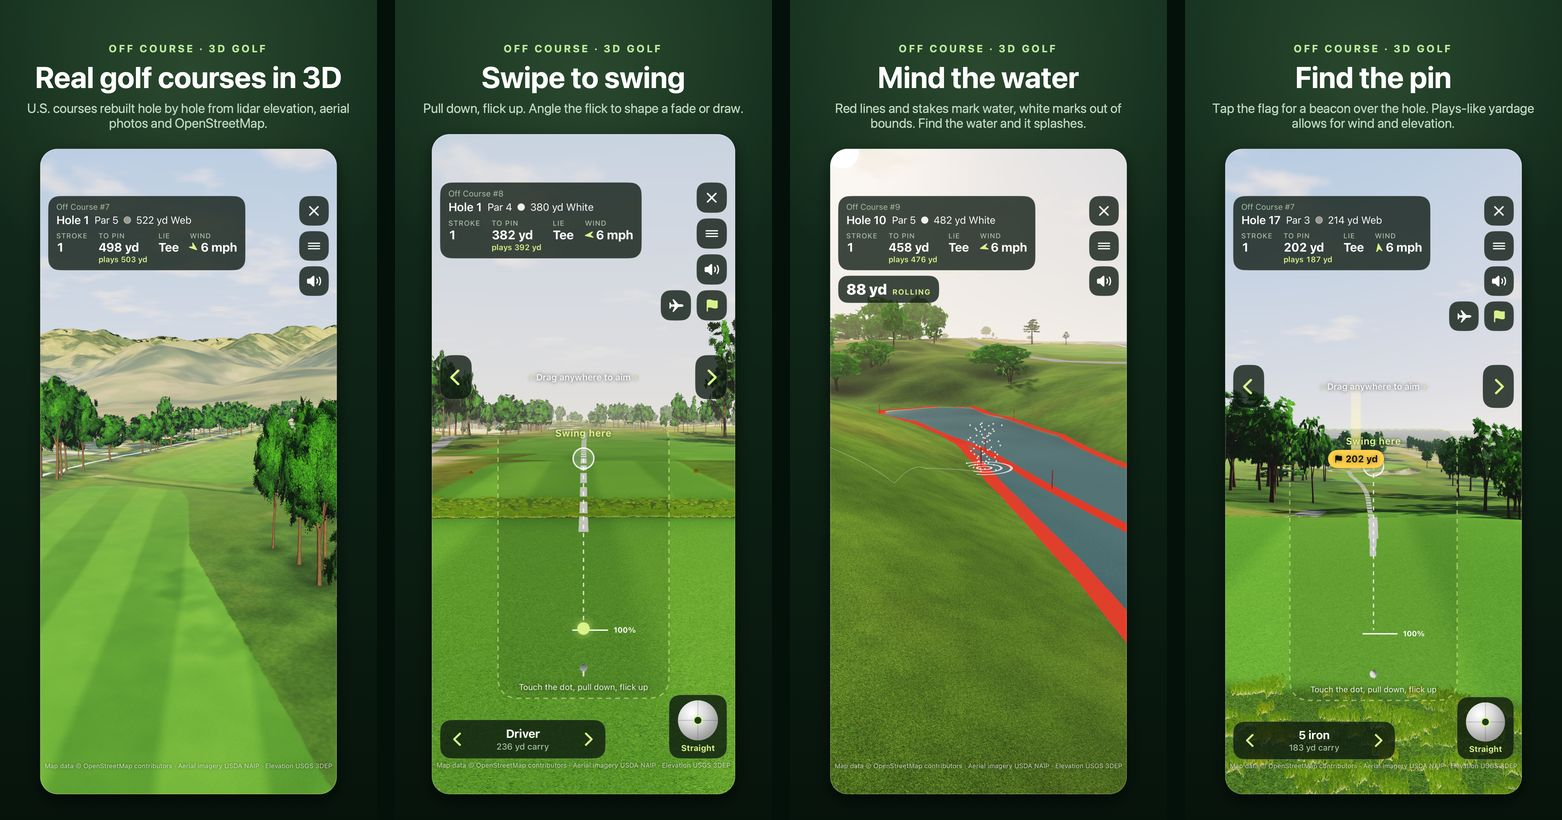
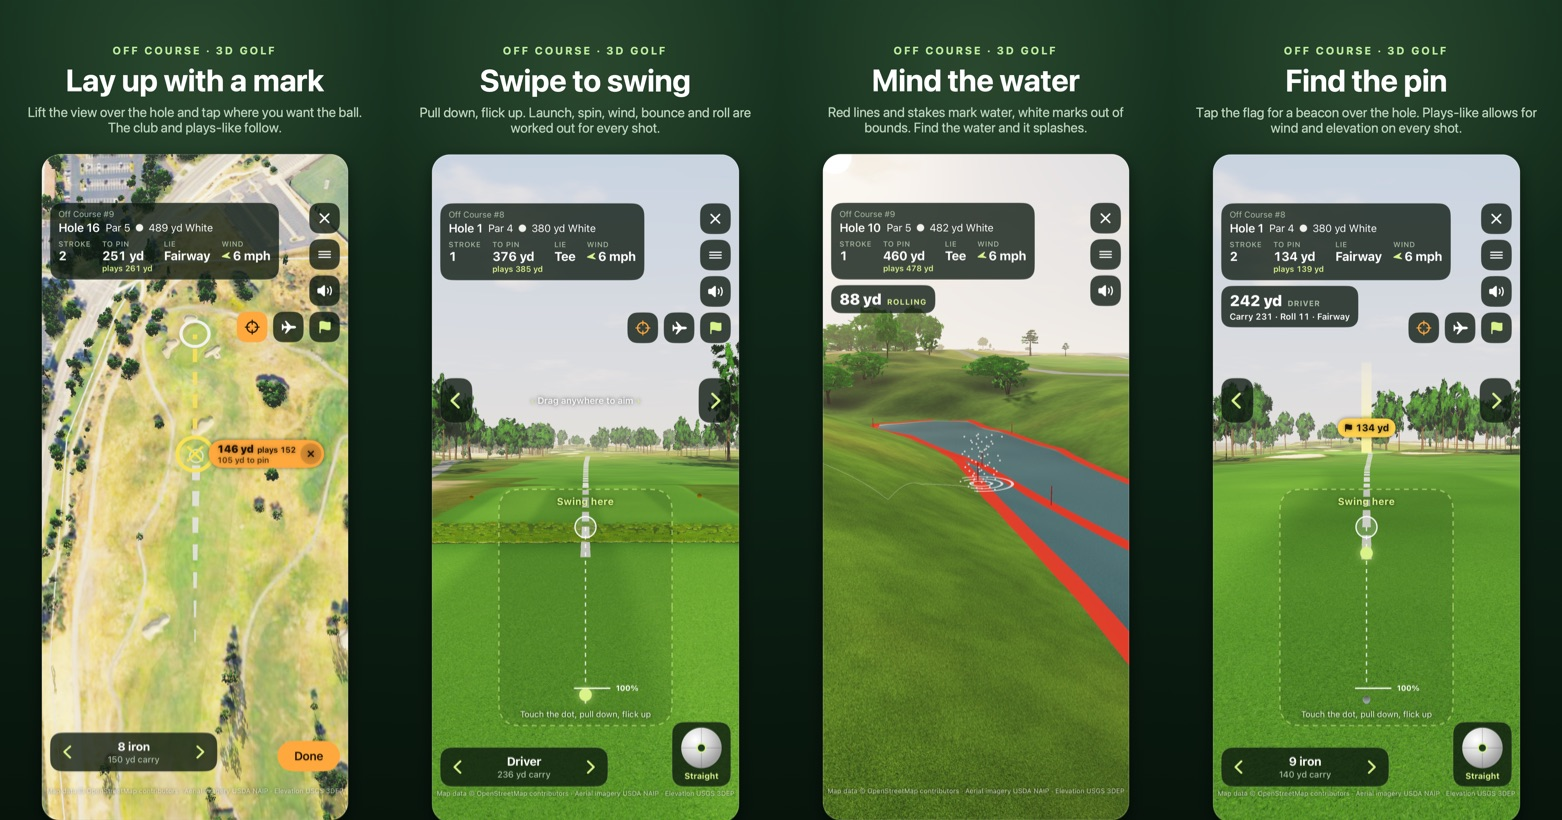
Show lay-ups on the support page, and say how replays work
The screens image now shows the lay-up mark, the swing pad, the water and
the beacon (from the 1.1 store screenshots). Getting started says how to
lay up, and a new answer says how to watch a shot again.

diff --git a/index.html b/index.html
@@ -8,7 +8,7 @@
 <section class="hero"><p class="eyebrow">3D golf for iPhone and Android</p>
 <h1>Real golf courses.<br>Rebuilt in 3D.</h1>
 <p class="intro">Help for Off Course: 3D Golf. Off Course rebuilds real U.S. golf courses from public lidar elevation, aerial photos and OpenStreetMap, and you play them with a swipe. Off Course #1 is free.</p></section>
-<img class="shot" src="screens.jpg" width="1562" height="820" alt="Four Off Course screens: a flyover of a course in the hills, the swing pad, a ball splashing into a creek marked with red stakes, and the beacon over the hole.">
+<img class="shot" src="screens.jpg" width="1562" height="820" alt="Four Off Course screens: the view over a hole with a lay up mark, the swing pad, a ball splashing into a creek marked with red stakes, and the beacon over the hole.">
 
 <section class="contact"><h2>Contact Off Course</h2>
 <p>A question, a hole that doesn’t look right, or a purchase that didn’t unlock?</p>
@@ -24,6 +24,7 @@
 <li>Choose your tees, the wind and whether to show plays-like distance, then start the round.</li>
 <li>Aim by dragging anywhere on the screen, or with the arrows at the sides.</li>
 <li>To swing, touch the dot, pull down and flick up. Angle the flick to shape a fade or a draw.</li>
+<li>To lay up, tap the crosshair button to look down over the hole, then tap where you want the ball. The mark shows the yards to it and what it plays, and the club follows it. Drag the mark to move it.</li>
 <li>To putt, touch the dot, pull back and let go. Tap Read first to study the green.</li>
 <li>Tap the flag button for a beacon over the hole, or the airplane button to fly over the hole from your ball.</li>
 </ol></section>
@@ -55,6 +56,8 @@
 <p>From version 1.1, Live is a wind choice next to the four set winds. It plays the real wind at the course right now, from the U.S. National Weather Service forecast for the course’s location, and keeps it for the round. Checking the forecast needs a connection; a forecast checked in the last 12 hours still works offline. If there’s no forecast, the round plays Light breeze from the west and says so.</p></details>
 <details><summary>Why did my ball go through a tree?</summary>
 <p>Trees aren’t solid walls. A ball that clips the edge of a tree can get through, a little slower. Hit the middle and it will probably meet a branch: some shots glance off, others get knocked down.</p></details>
+<details><summary>How do I watch a shot again?</summary>
+<p>After each hole, the scorecard has Replay and Slow beside every shot, and the menu has Replay last shot and Slow-motion replay. Tap Stop replay, or anywhere on the course, to stop one. To hide replays, turn off Shot replays on the setup screen or in the menu.</p></details>
 <details><summary>What is plays-like distance?</summary>
 <p>The distance a shot plays after the wind and the climb or drop to the pin, worked out with the same ball flight the game uses. The suggested club follows it. You can turn it off in the round setup or in the menu during a round.</p></details>
 <details><summary>Does Off Course use my location?</summary>
